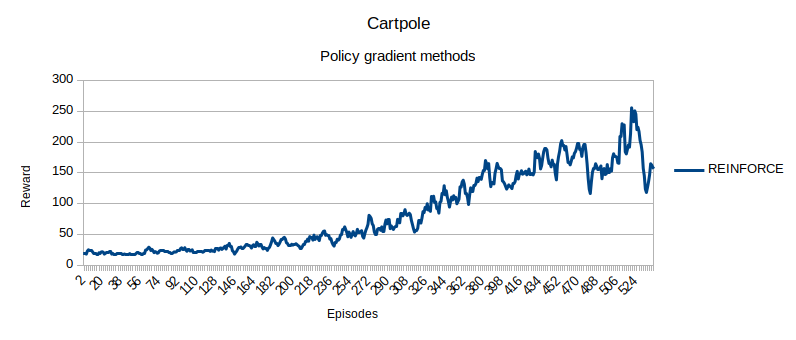
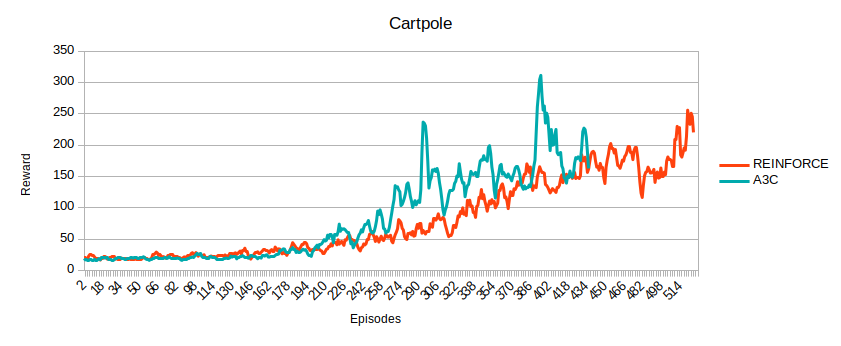
Results updated with A3C fixed

diff --git a/A3C.py b/A3C.py
@@ -25,7 +25,6 @@ class Network(nn.Module):
         self.value = nn.Linear(32, 1)
         self.probs = nn.Linear(32, action_space)
 
-        self.optimizer = optim.Adam(self.parameters())
         self.value_loss = nn.MSELoss()
         self.input_shape = input_shape
         self.output_shape = action_space
@@ -92,7 +91,7 @@ class Actor(threading.Thread):
         policy_loss = []
         value_loss = []
 
-        for t in reversed(range(t_start, len(episode))):
+        for t in reversed(range(t_start, len(episode) - 1)):
             state = episode[t]
             r = GAMMA * r + state[2]
             value = state[4]
@@ -102,8 +101,7 @@ class Actor(threading.Thread):
         if len(policy_loss) == 0:
             return
 
-        self.thread_network.optimizer.zero_grad()
-        loss = torch.cat(policy_loss).sum() + torch.stack(value_loss).sum()
+        loss = torch.cat(policy_loss).sum() + torch.stack(value_loss).mean()
         update_network(self.global_network, self.thread_network, loss)
 
 
@@ -129,17 +127,18 @@ def append_episode_result(reward, thread_num):
 
 def update_network(global_network, thread_network, loss):
     network_lock.acquire()
-    global_network.optimizer.zero_grad()
+    shared_optimizer.zero_grad()
     loss.backward()
     for thread_param, global_param in zip(thread_network.parameters(), global_network.parameters()):
         global_param.grad = thread_param.grad
-    global_network.optimizer.step()
+    shared_optimizer.step()
     network_lock.release()
 
 
 rewards = []
 threads = []
 network = Network(INPUT_SPACE, ACTION_SPACE).cuda()
+shared_optimizer = optim.Adam(network.parameters())
 network_lock = threading.Lock()
 train()
 
